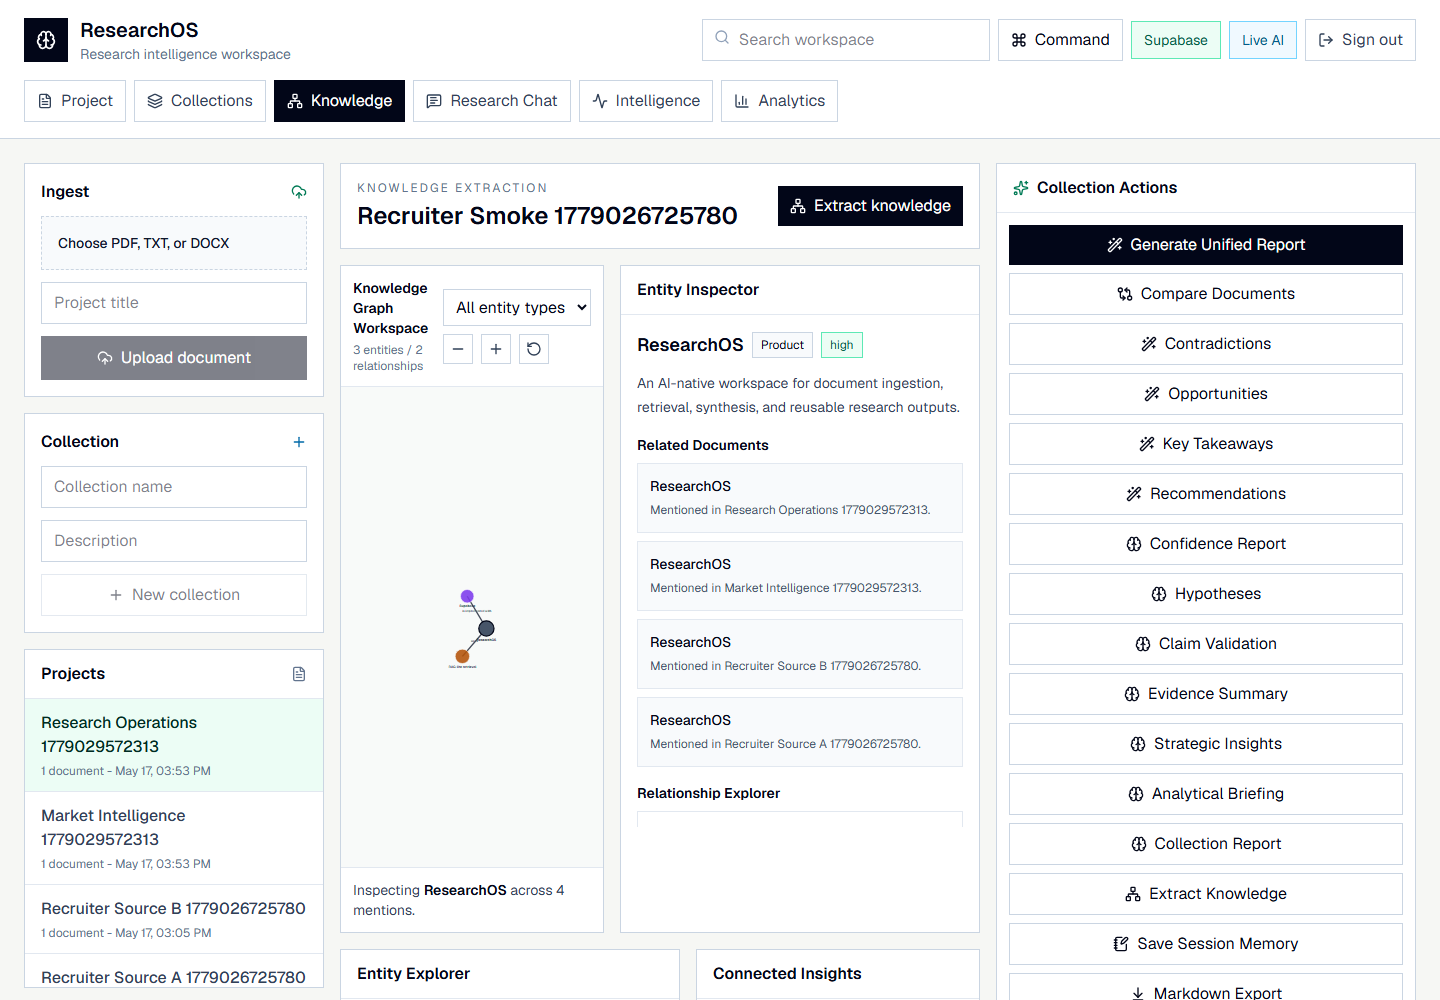
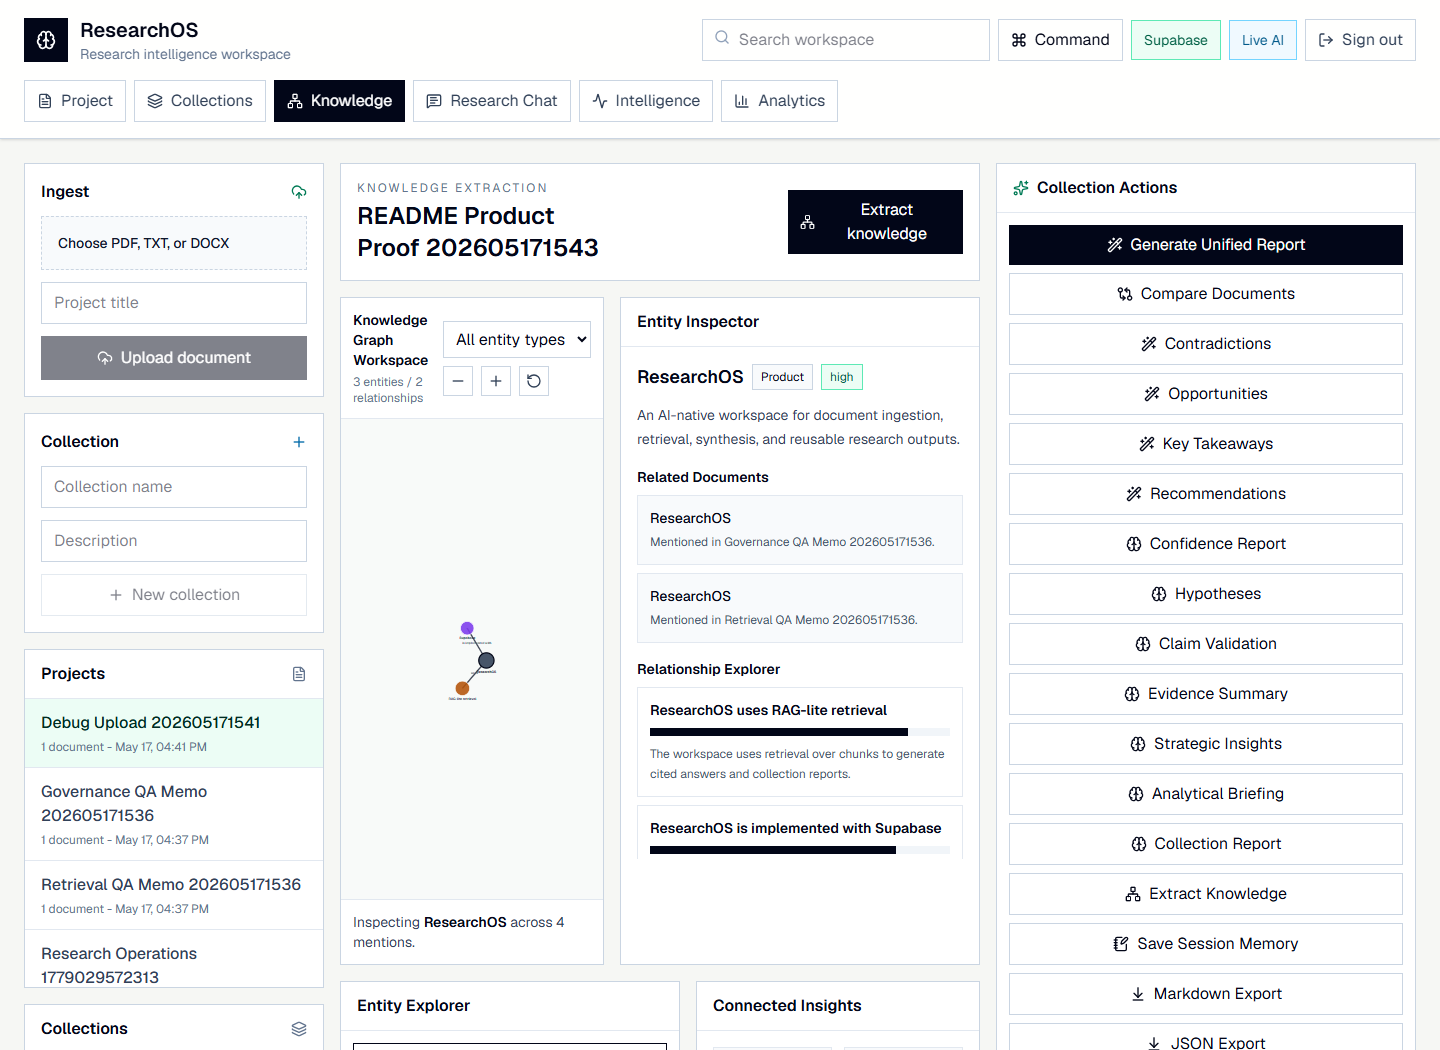
Refresh recruiter-facing product proof

diff --git a/README.md b/README.md
@@ -38,6 +38,8 @@ Most AI document tools summarize one file at a time. ResearchOS is built for the
 
 ## Product Proof
 
+Captured from the deployed Vercel app with the public recruiter login.
+
 | Dashboard | Collection Workspace |
 | --- | --- |
 | ![ResearchOS dashboard](docs/screenshots/dashboard.png) | ![Research collection workspace](docs/screenshots/collection-workspace.png) |
@@ -46,9 +48,9 @@ Most AI document tools summarize one file at a time. ResearchOS is built for the
 | --- | --- |
 | ![Unified synthesis report](docs/screenshots/synthesis-report.png) | ![Interactive knowledge graph](docs/screenshots/knowledge-graph.png) |
 
-| Research Chat |
-| --- |
-| ![Cited research chat](docs/screenshots/research-chat.png) |
+| Research Chat | Mobile Workspace |
+| --- | --- |
+| ![Cited research chat](docs/screenshots/research-chat.png) | ![Responsive ResearchOS workspace](docs/screenshots/mobile-workspace.png) |
 
 ---
 
